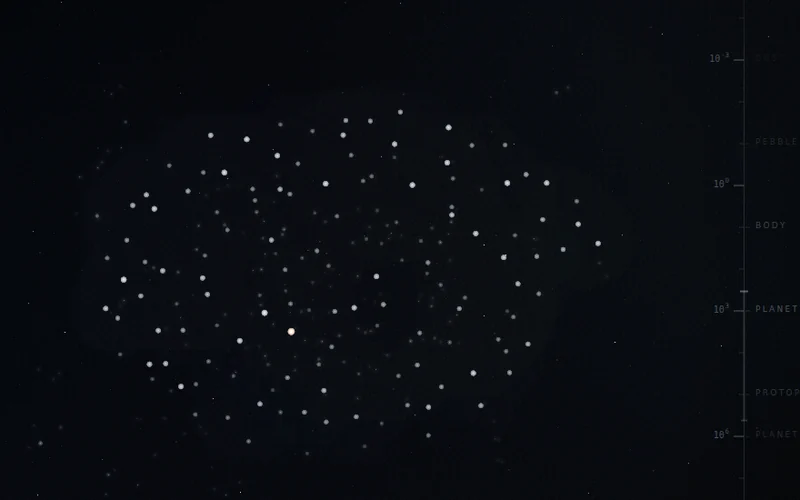
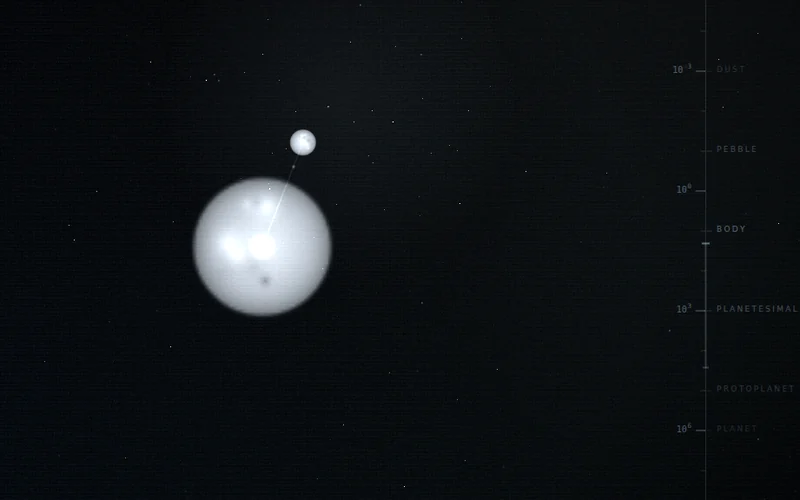
Games index: Accretion gets a picture, and the README lists every game and says what a page fetches

diff --git a/index.html b/index.html
@@ -152,7 +152,7 @@
 <meta name="plays" content="https://games-plays.xxgeminixx.workers.dev">
 <!-- plays:end -->
 <!-- build-watch:start -->
-<meta name="build" content="aee6616d8dcc">
+<meta name="build" content="8e1aa765324e">
 <script>
 (function () {
   var meta = document.querySelector('meta[name="build"]');

diff --git a/README.md b/README.md
@@ -4,20 +4,24 @@ The index of the games, plus the builds of the ones that are served from here.
 
 **https://xxgeminixx.github.io/games/**
 
-The games hosted here are plain ES modules: no build step, no package manager, no
-bundler, no dependencies, and nothing fetched from anywhere else while you play (each page
-reads its own build.json from this site now and then, so a game left open notices a new build). Clone one and it
-runs, as long as it is served over http rather than opened off the filesystem,
-which is the one thing browsers refuse to do with modules.
+The games hosted here are plain ES modules: no build step, no package manager,
+no bundler and no dependencies. Clone one and it runs, as long as it is served
+over http rather than opened off the filesystem, which is the one thing browsers
+refuse to do with modules. What a page does fetch is listed under Constraints,
+and it is two things.
 
 ## What is here
 
 | | |
 |---|---|
+| [open-outcry](open-outcry/) | A trading pit under a slate board. Quote a bid and an offer, and the crowd trades against you. |
+| [brass-rain](brass-rain/) | Balls fall through a few hundred brass nails, and between rounds you bend the nails. |
 | [swarm-breaker](swarm-breaker/) | One decision a turn: the angle. A growing swarm does the rest. |
 | [accretion](accretion/) | A blank field, a click, and whatever gravity makes of it. |
 | [barrow](barrow/) | The dead dig; you keep the books. An idle horde, endless strata, and a market that moves when you sell into it. |
 | [foxfire](foxfire/) | One spore on a dead log; then the forest. A honey fungus whose tips forage on their own, a market of trees, and a floor that folds into a bigger one. |
+| [fall-line](fall-line/) | A tower defense where you shape the hill. The Melt takes the fastest way down and grows a counter to whatever killed it. |
+| [aerie](aerie/) | A carrier over cold water. Thousands of drones work the island and bring back what sells. |
 
 And one that is listed but not hosted here:
 
@@ -42,8 +46,15 @@ To make a change stick in one browser, put a patch in storage from the console:
 ## Constraints
 
 Everything listed here draws its graphics from primitives and math rather than
-from image files, sends nothing anywhere, and measures nothing. A save lives in
-the browser that made it.
+from image files. A save lives in the browser that made it.
+
+A page fetches two things, and no more. It reads its own `build.json` from this
+site now and then, so a game left open in a tab notices that it has been
+replaced. And each game adds one to a counter the first time a browser plays it,
+so the index can list the ones people play first: a number going up, with no
+account, no cookie, no identifier and nothing about how it was played. The
+counter is added when a build is published rather than living in any game's
+source. Add `?nocount` to the address to sit it out.
 
 The games hosted here hold to two more that Iron Spine does not:
 
